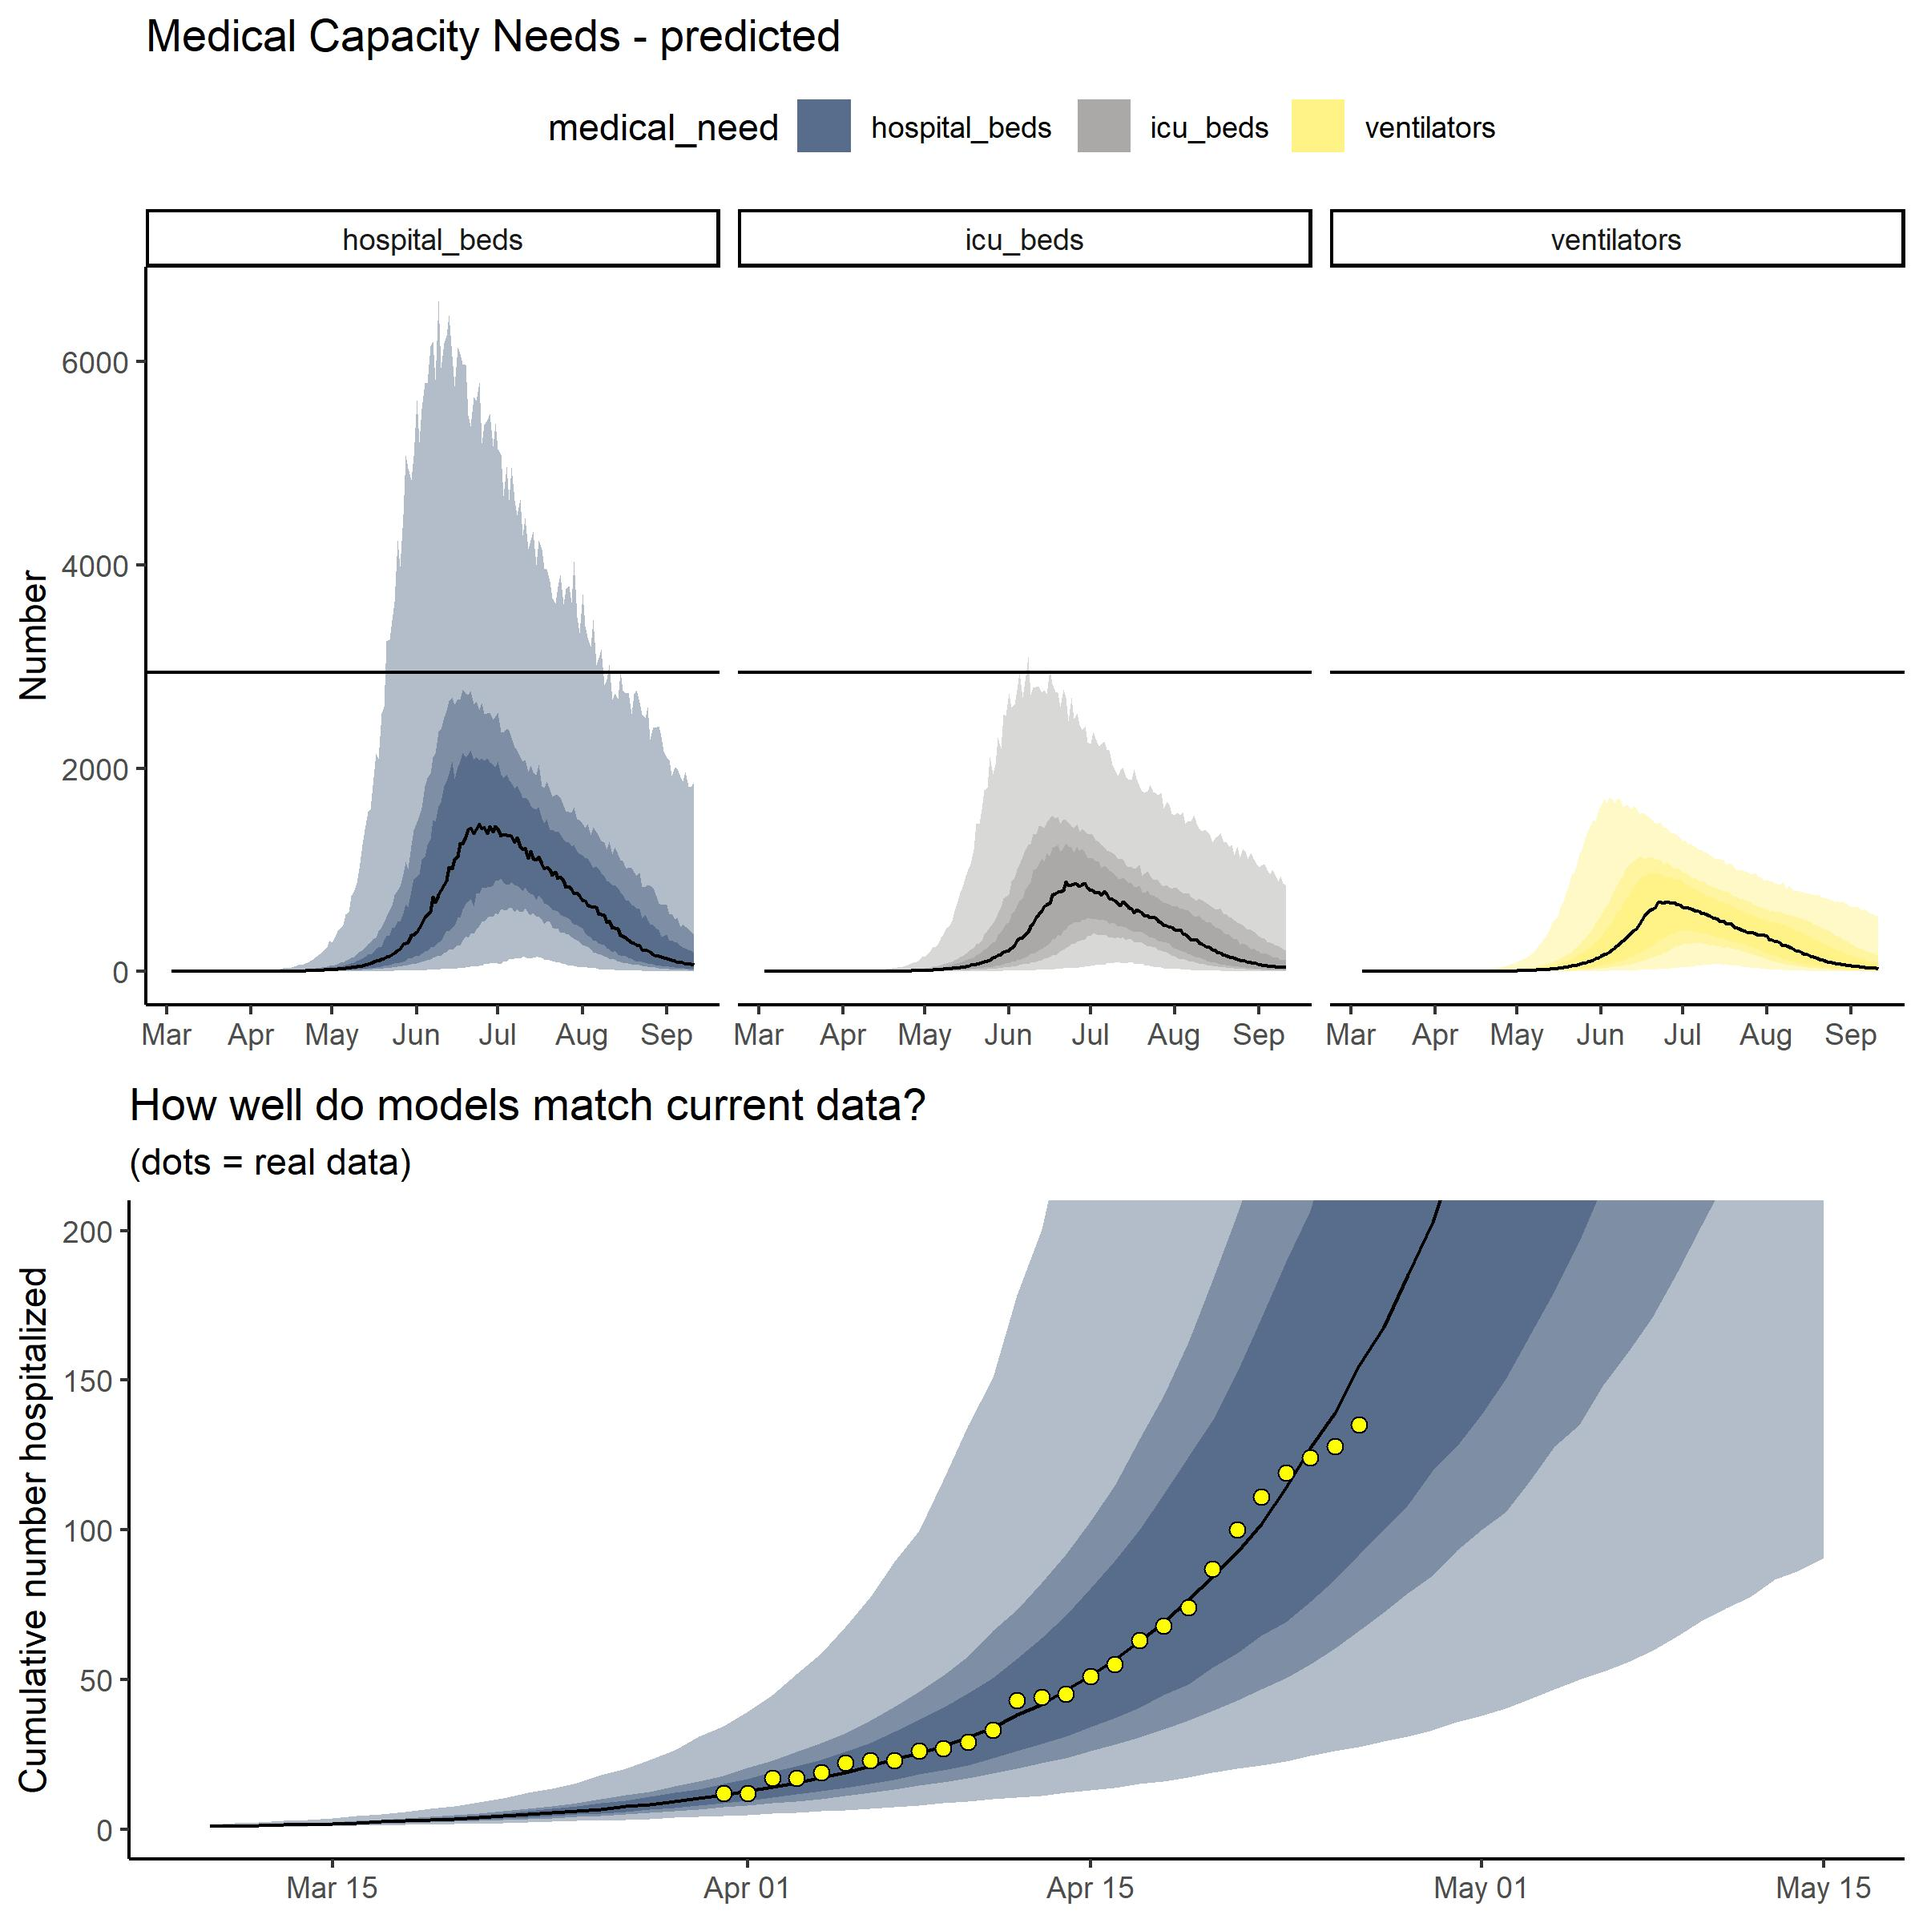
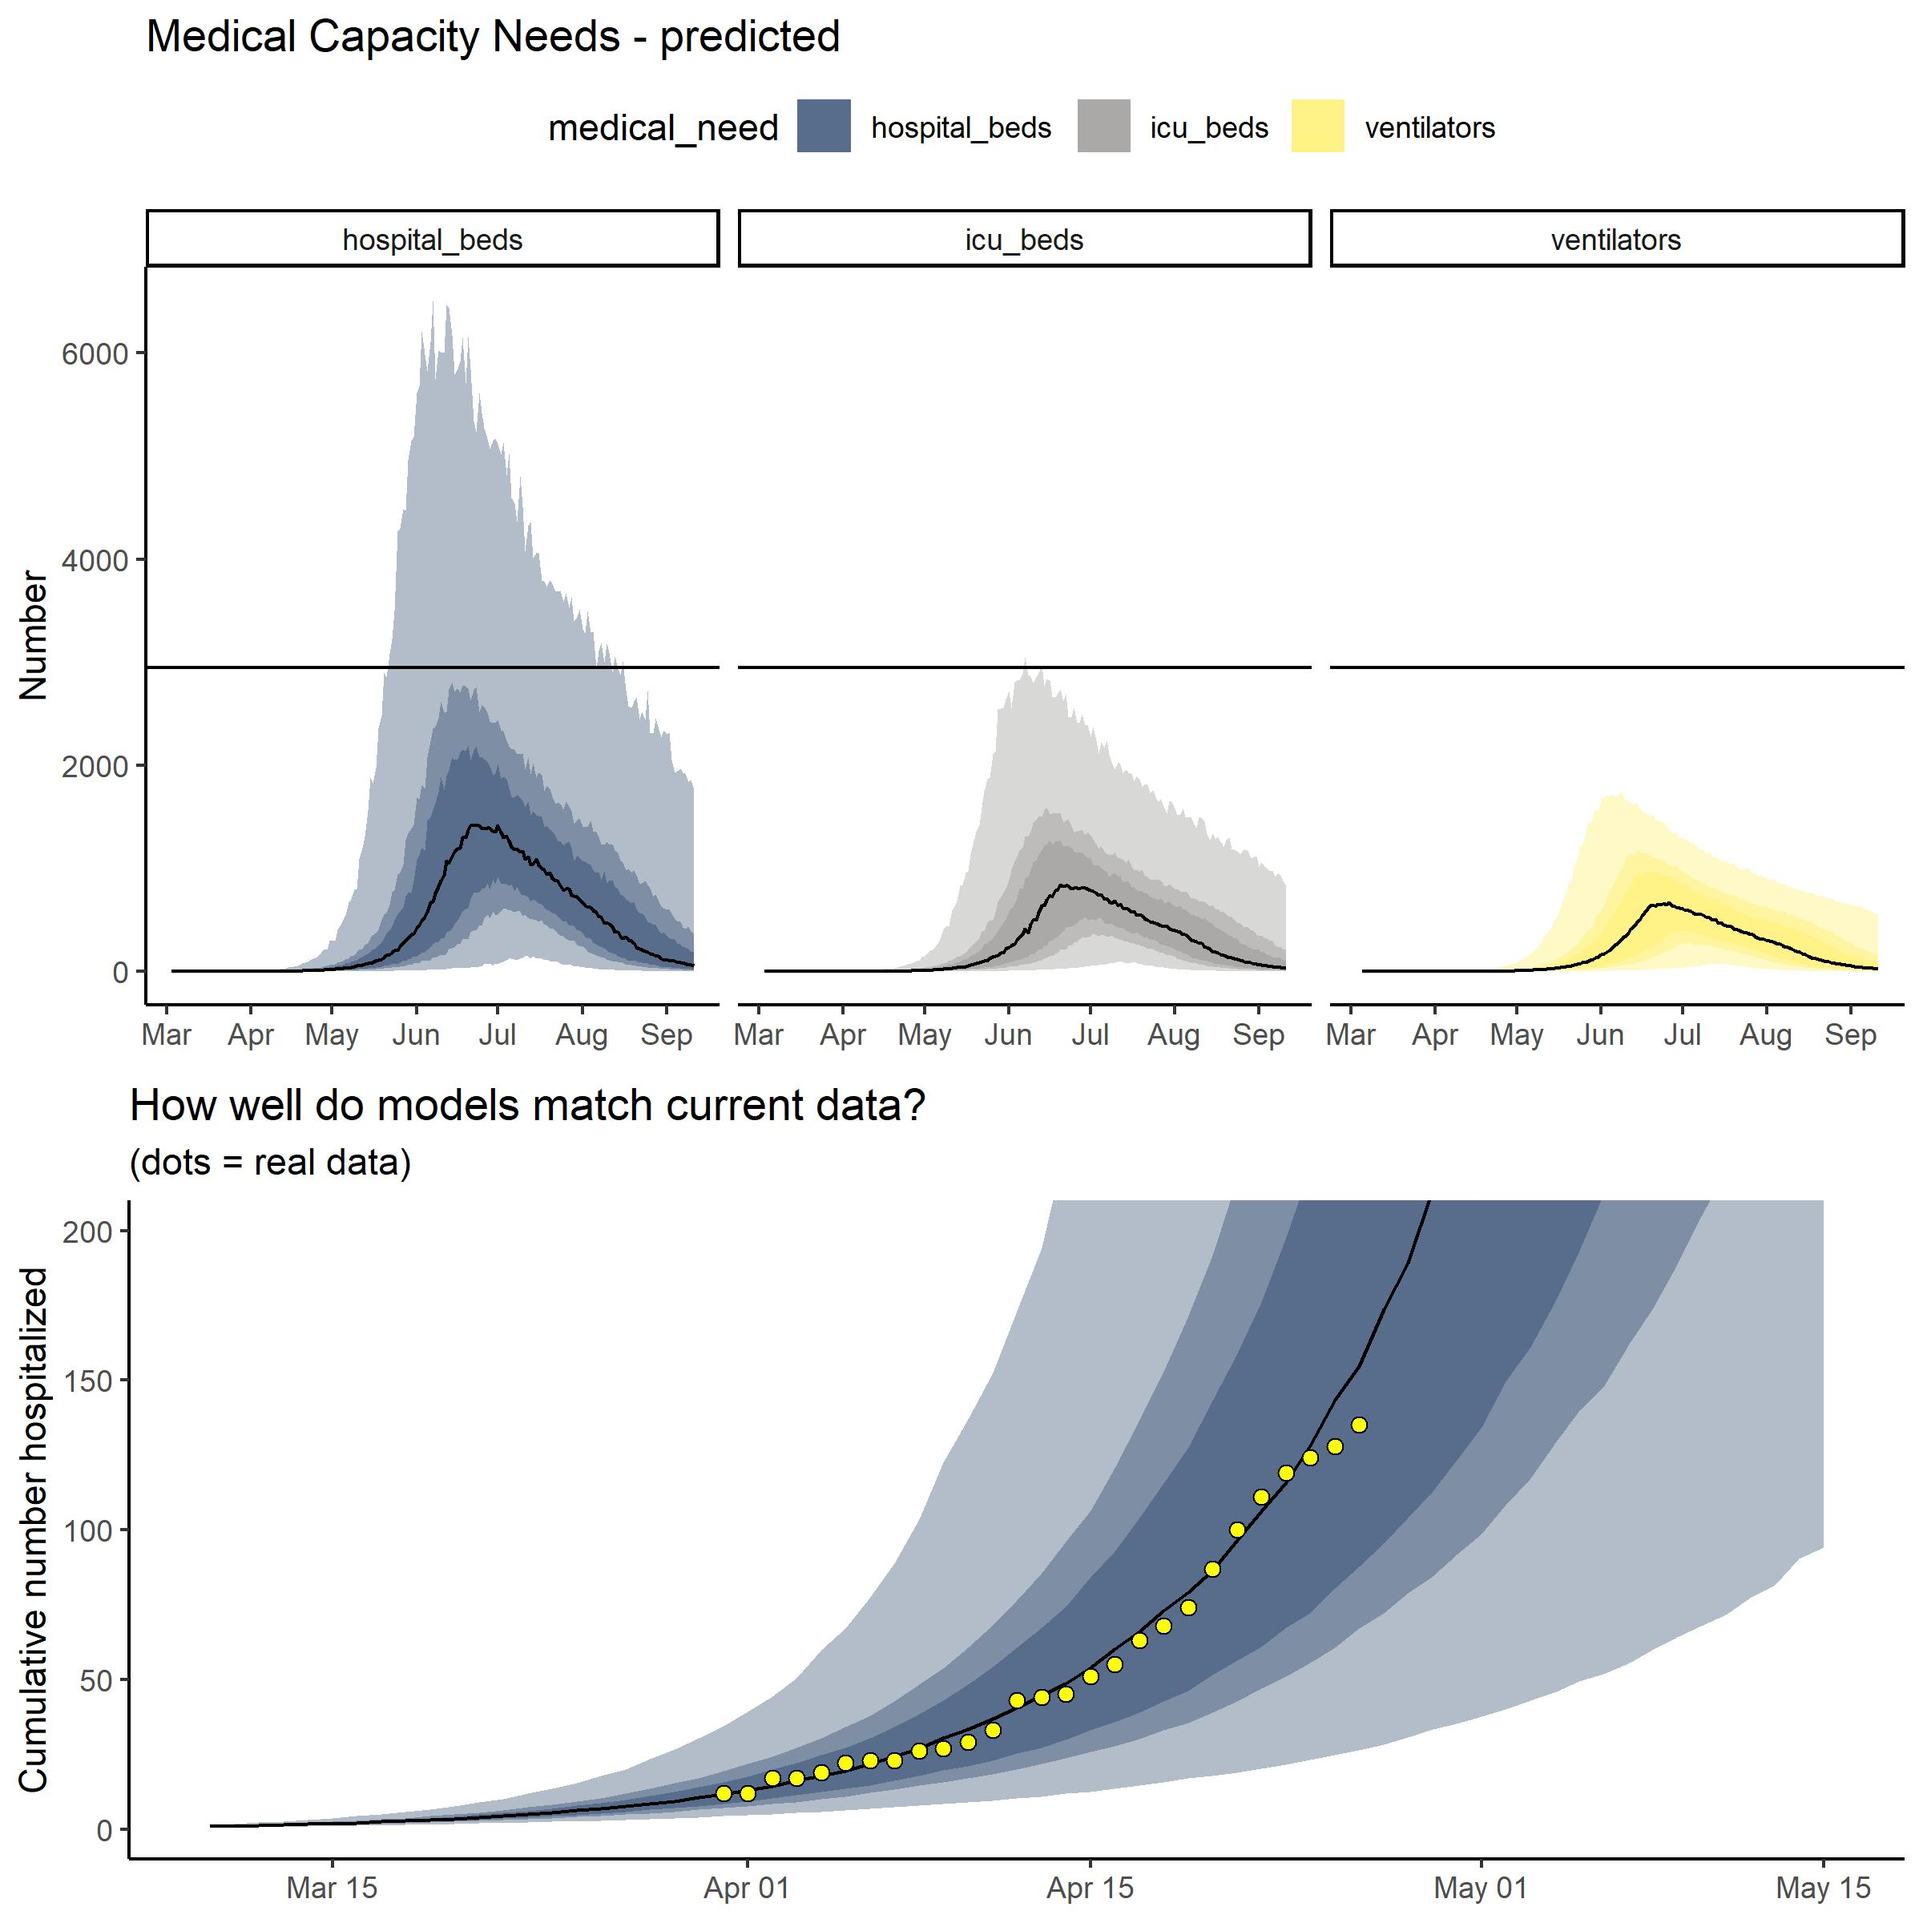
update with prediction code

diff --git a/README.md b/README.md
@@ -139,9 +139,9 @@ in Table 2.
 
 | Need          | Mean | Lower95 | Upper95 |
 | :------------ | ---: | ------: | ------: |
-| Hospital Beds | 1778 |     146 |    6600 |
-| ICU Beds      |  958 |      95 |    3101 |
-| Ventilators   |  665 |      76 |    1712 |
+| Hospital Beds | 1779 |     148 |    6509 |
+| ICU Beds      |  954 |      98 |    3052 |
+| Ventilators   |  660 |      75 |    1752 |
 
 Table 2. Estimated peak medical needs in South Dakota.
 
